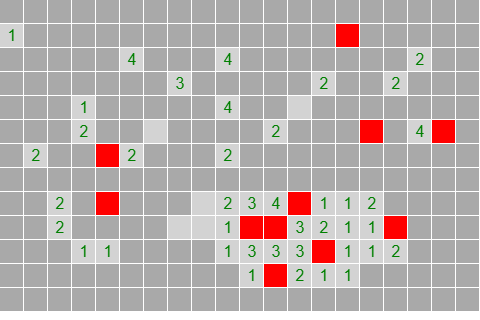
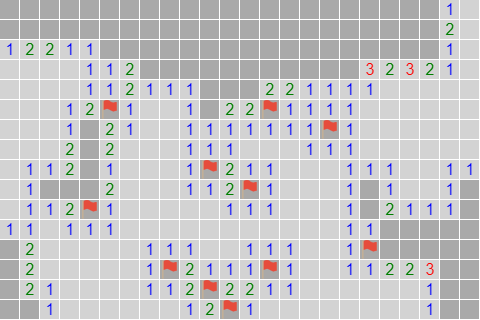
minesweeper completed

diff --git a/js/minesweeper/render.js b/js/minesweeper/render.js
@@ -2,30 +2,58 @@ const canvas = document.getElementById("myCanvas");
 canvas.style.backgroundColor = "white";
 const ctx = canvas.getContext("2d");
 
-const res = 24
+const res = 20
 const cols = Math.floor(canvas.width / res)
 const rows = Math.floor(canvas.height / res)
-const numOfMines = 50;
-let mines = [];
+const numOfMines = 40;
+let mines;
 let grid;
 let neighbours
 let started = false;
+let flags;
+
+// images: Flaticon.com
+const mineImg = new Image();
+mineImg.src = './static/assets/bomb.svg';
+const flagImg = new Image();
+flagImg.src = './static/assets/flag.svg';
 
 function startGame() {
     started = true;
+    flags = 0;
+    document.addEventListener("click", mouseClick);
+    flagButton.innerHTML = "MINE";
     grid = makeArray(cols, rows);
+    mines = [];
     neighbours = makeArray(cols, rows);
     placeMines();
     countNeighbours();
     draw();
 }
 
-function makeArray(cols, rows) {
+function gameOver() {
+    started = false;
+    flagButton.innerHTML = "RESTART";
+    document.removeEventListener("click", mouseClick);
+    grid = makeArray(cols, rows, 1);
+    draw();
+}
+
+function makeArray(cols, rows, value = 0) {
     const x = new Array(cols);
     for (let i = 0; i < x.length; i++) {
-        x[i] = new Array(rows).fill(0);
+        x[i] = new Array(rows).fill(value);
     }
     return x
+}
+
+function hasWon() {
+    if (flags === numOfMines) {
+        for (let i = 0; i < numOfMines; i++) {
+            if (grid[mines[i][0]][mines[i][1]] != 2) return false;
+        }
+        return true;
+    } else return false;
 }
 
 function countNeighbours() {
@@ -42,22 +70,11 @@ function countNeighbours() {
     }
 }
 
-function arrayAlreadyHasArray(arr, subarr) {
-    for (var i = 0; i < arr.length; i++) {
-        let checker = false
-        for (var j = 0; j < arr[i].length; j++) {
-            if (arr[i][j] === subarr[j]) {
-                checker = true
-            } else {
-                checker = false
-                break;
-            }
-        }
-        if (checker) {
-            return true
-        }
+function hasMine(x, y) {
+    for (let i = 0; i < mines.length; i++) {
+        if (mines[i][0] === x && mines[i][1] === y) return true;
     }
-    return false
+    return false;
 }
 
 function placeMines() {
@@ -66,7 +83,7 @@ function placeMines() {
         while (!done) {
             const rndCol = Math.floor(Math.random() * Math.floor(canvas.width / res));
             const rndRow = Math.floor(Math.random() * Math.floor(canvas.height / res));
-            if (!arrayAlreadyHasArray(mines, [rndCol, rndRow])) {
+            if (!hasMine(rndCol, rndRow)) {
                 mines.push([rndCol, rndRow]);
                 done = true;
             }
@@ -82,6 +99,30 @@ function menu() {
     ctx.fillText("Press SPACEBAR to start", canvas.width / 2, 2 * canvas.height / 3);
 }
 
+function getColour(num) {
+    switch (num) {
+        case 1:
+            return "Blue";
+        case 2:
+            return "Green";
+        case 3:
+            return "Red";
+        case 4:
+            return "DarkBlue";
+        case 5:
+            return "DarkRed";
+        case 6:
+            return "DarkCyan";
+        case 7:
+            return "Black";
+        case 8:
+            return "DimGrey";
+        default:
+            return "Green"
+    }
+}
+
+
 function draw() {
     ctx.clearRect(0, 0, canvas.width, canvas.height);
 
@@ -90,23 +131,34 @@ function draw() {
             let x = i * res;
             let y = j * res;
             if (grid[i][j] == 1) {
-                if (arrayAlreadyHasArray(mines, [i, j])) {
-                    ctx.fillStyle = "red";
+                if (hasMine(i, j)) {
+                    ctx.fillStyle = "LightGrey";
                     ctx.fillRect(x, y, res - 1, res - 1);
-
+                    ctx.drawImage(mineImg, x, y, res - 1, res - 1);
                 } else {
                     ctx.fillStyle = "LightGrey";
                     ctx.fillRect(x, y, res - 1, res - 1);
                     const neighs = neighbours[i][j];
                     if (neighs > 0) {
-                        ctx.fillStyle = "green";
+                        ctx.fillStyle = getColour(neighs);
+                        ctx.font = "16px Arial";
                         ctx.fillText(neighbours[i][j], x + res / 2, y + res / 2 + 5);
                     }
                 }
-            }
-            else {
+            } else if (grid[i][j] == 2) {
                 ctx.fillStyle = "DarkGrey";
                 ctx.fillRect(x, y, res - 1, res - 1);
+                ctx.drawImage(flagImg, x, y, res - 1, res - 1);
+            } else {
+                ctx.fillStyle = "DarkGrey";
+                ctx.fillRect(x, y, res - 1, res - 1);
+            }
+            if (hasWon()) {
+                ctx.font = "16px Arial";
+                ctx.textAlign = "center";
+                ctx.fillStyle = "DarkRed";
+                ctx.fillText("YOU WIN!", canvas.width / 2, canvas.height / 3);
+                ctx.fillText("Press SPACEBAR to restart", canvas.width / 2, 2 * canvas.height / 3);
             }
         }
     }

diff --git a/js/minesweeper/input.js b/js/minesweeper/input.js
@@ -1,5 +1,6 @@
 document.addEventListener("keydown", keyDownHandler);
-document.addEventListener("click", mouseClick);
+const flagButton = document.getElementById('flag-button');
+let flag = false;
 
 function keyDownHandler(e) {
     if (e.keyCode === 32 && started === false) {
@@ -12,18 +13,74 @@ function mouseClick(e) {
     if (started) {
         const rect = canvas.getBoundingClientRect(), // abs. size of element
             scaleX = canvas.width / rect.width,    // relationship bitmap vs. element for X
-            scaleY = canvas.height / rect.height;  // relationship bitmap vs. element for Y
+            scaleY = canvas.height / rect.height,  // relationship bitmap vs. element for Y
+            canvasX = (e.clientX - rect.left) * scaleX, // scale mouse coordinates after 
+            canvasY = (e.clientY - rect.top) * scaleY; // they have been adjusted to be relative to element
 
-        // scale mouse coordinates after they have been adjusted to be relative to element
-        handleInput((e.clientX - rect.left) * scaleX, (e.clientY - rect.top) * scaleY)
+        if (flag) handleFlagInput(canvasX, canvasY);
+        else handleMineInput(canvasX, canvasY);
     }
 }
 
-function handleInput(x, y) {
+function handleMineInput(x, y) {
     if (x < canvas.width && y < canvas.height) {
         const xsq = Math.floor(x / res);
         const ysq = Math.floor(y / res);
-        grid[xsq][ysq] = 1;
+        if (grid[xsq][ysq] == 0) {
+            grid[xsq][ysq] = 1;
+            if (hasMine(xsq, ysq)) gameOver();
+            else if (neighbours[xsq][ysq] == 0) clearZeros(xsq, ysq);
+            draw();
+        }
+    }
+}
+
+function handleFlagInput(x, y) {
+    if (x < canvas.width && y < canvas.height) {
+        const xsq = Math.floor(x / res);
+        const ysq = Math.floor(y / res);
+        if (grid[xsq][ysq] == 0) {
+            grid[xsq][ysq] = 2;
+            flags += 1;
+        }
+        else if (grid[xsq][ysq] == 2) {
+            grid[xsq][ysq] = 0;
+            flags -= 1;
+        }
         draw();
+    }
+}
+
+function clearZeros(x, y) {
+    for (let i = - 1; i < 2; i++) {
+        for (let j = - 1; j < 2; j++) {
+            if (!(j == 0 && i == 0) && x + i < cols && x + i >= 0
+                && y + j < rows && y + j >= 0) {
+                if (!hasMine(x + i, y + j) && grid[x + i][y + j] == 0) {
+                    if (neighbours[x + i][y + j] != 0) {
+                        grid[x + i][y + j] = 1;
+                    }
+                    else {
+                        grid[x + i][y + j] = 1;
+                        clearZeros(x + i, y + j);
+                    }
+                }
+            }
+        }
+    }
+}
+
+function flagClicked() {
+    if (!started) {
+        startGame(); return;
+    }
+    flagButton.checked = !flagButton.checked;
+    if (flagButton.checked) {
+        flagButton.innerHTML = "FLAG";
+        flag = true;
+    }
+    else {
+        flagButton.innerHTML = "MINE";
+        flag = false;
     }
 }

diff --git a/js/spaceInvaders/render.js b/js/spaceInvaders/render.js
@@ -98,15 +98,6 @@ function drawPlayer() {
     ctx.closePath();
 }
 
-function loadImage(url) {
-    return new Promise(resolve => {
-        const image = new Image();
-        image.addEventListener('load', () => {
-            resolve(image);
-        });
-        image.src = url;
-    });
-}
 function drawInvaders() {
     if (invaders[0][0].x < invaderOffsetLeft || invaders[0][invaderRowCount - 1].x + invaderWidth >= canvas.width - invaderOffsetLeft) {
         dx = -dx;

diff --git a/minesweeper.html b/minesweeper.html
@@ -40,7 +40,12 @@
             <div id="collapsible">
                 <ul>
                     <dt><i>Click</i> a square to mine</dt>
+                    <dt>Place flags on all the mines to win</dt>
                 </ul>
+            </div>
+
+            <div class="game-controller">
+                <button class="game-buttons" id="flag-button" onclick="flagClicked()">START</button>
             </div>
 
         </div>
